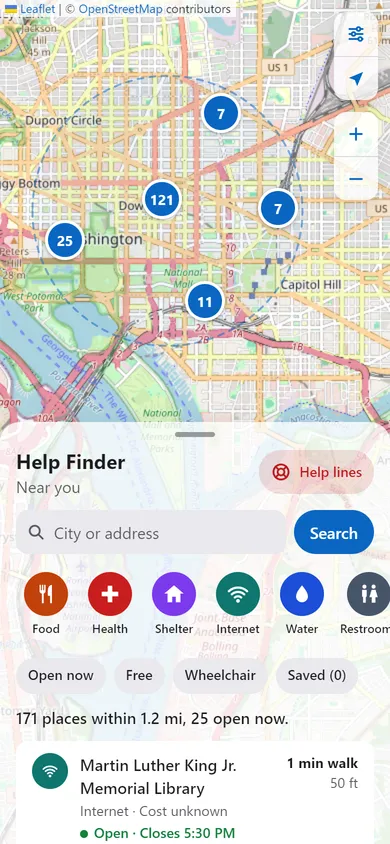
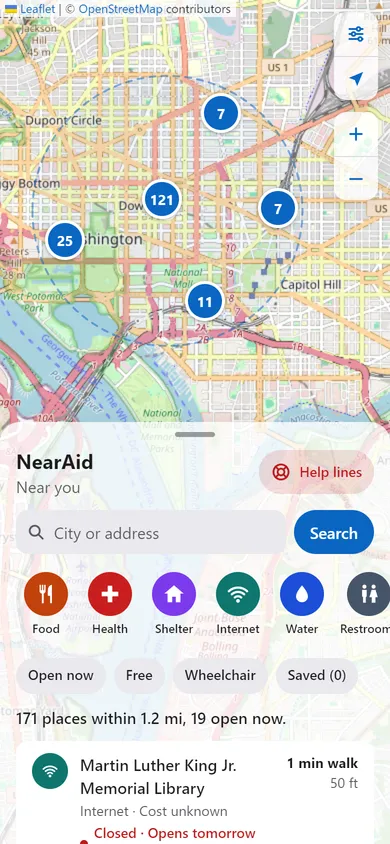
Update documents and screenshots for NearAid
README, SUBMISSION, and the demo video script now describe the nine languages,
the "What do you need?" start screen, the weekly Geofabrik-based offline packs
(204,000 places, 9,400 files), and the tested airplane-mode flow. New and
retaken screenshots use the new name.

Changed region(s): [[0.1846, 0.955, 0.6769, 1.0], [0.0308, 0.5237, 0.3077, 0.5545], [0.4923, 0.8318, 0.7385, 0.8626]]

diff --git a/README.md b/README.md
@@ -1,12 +1,16 @@
 # NearAid
 
-**Free help near you, in English and Spanish, anywhere.**
+**Free help near you, in nine languages, anywhere, even in airplane mode.**
 
-NearAid is a free map app that shows free food, health care, shelter, internet, drinking water, restrooms, and showers near you, tells you what's **open right now**, and shows you **how to walk there**. It works on any phone with a web browser, installs to the home screen, and keeps working with no signal.
+NearAid is a free map app that shows free food, health care, shelter, internet, drinking water, restrooms, and showers near you. It tells you what's **open right now** and shows you **how to walk there**. It works on any phone with a web browser, installs to the home screen, and can work with no signal at all.
 
 **Try it:** https://nandan458.github.io/help-finder/
 
-|                          Phone, light, English                          |                               Phone, dark, Spanish                                |                                 Walking directions                                 |
+|                                Pick a language                                |                                                  What do you need?                                                  |                           Free food, nearest first                           |
+| :---------------------------------------------------------------------------: | :-----------------------------------------------------------------------------------------------------------------: | :--------------------------------------------------------------------------: |
+| ![Language chooser with nine languages](docs/screenshots/phone-language.webp) | ![Big buttons: free food, health care, a place to stay, Wi-Fi, water, restrooms](docs/screenshots/phone-needs.webp) | ![Food banks near downtown Washington, DC](docs/screenshots/phone-food.webp) |
+
+|                             Light, English                              |                                   Dark, Spanish                                   |                                 Walking directions                                 |
 | :---------------------------------------------------------------------: | :-------------------------------------------------------------------------------: | :--------------------------------------------------------------------------------: |
 | ![Nearby list in light mode](docs/screenshots/phone-list-light-en.webp) | ![Nearby list in dark mode, in Spanish](docs/screenshots/phone-list-dark-es.webp) | ![Walking route drawn on the map](docs/screenshots/phone-directions-light-en.webp) |
 
@@ -24,49 +28,49 @@ People who need help often don't know what's nearby or when it's open. The infor
 
 ## Who it helps
 
-- **Anyone who needs free resources, wherever they are:** people new to an area, people experiencing homelessness, travelers, families on a tight budget, and Spanish speakers. Many of them use older phones with limited data, so the app is small, fast, and works offline.
+- **Anyone who needs free resources, wherever they are:** people new to an area, people experiencing homelessness, travelers, families on a tight budget, and people who speak languages other than English. Many of them use older phones with limited data, so the app is small, fast, and works offline.
 - **People who help others:** counselors, librarians, social workers, and volunteers can look up nearby resources and share a link to one place.
 
 ## Features
 
-- **Find help near you.** Uses your location (or a city or address you type) and searches within 2 km, widening to 5 km and 15 km if there's little nearby. It always says how far it looked.
-- **Map and list together.** Color-coded pins that group into numbered bubbles when zoomed out, and a list sorted by walking time. Tap either one to open the place.
+- **Starts with what you need.** The first screen asks "What do you need?" with big picture buttons: free food, health care, a place to stay, Wi-Fi or a place to charge, drinking water, restrooms and showers. One tap, and the map opens filtered to that.
+- **Nine languages, chosen on first launch:** English, Español, 中文 (简体), Tagalog, Tiếng Việt, 한국어, Français, Kreyòl ayisyen, and Русский. Adding a language means adding one file. Walking steps are in your language for Spanish, French, Vietnamese, Korean, and Russian; the routing service doesn't offer the other three, so those show English steps with a note.
+- **Works in airplane mode.** Save your state once (Settings → Offline use, about 1 to 4 MB) and every search there works with no signal, even in places you never visited. Without that, the app still opens offline and shows your last results and saved places.
+- **Fast.** Searches inside the U.S. read small pre-made files, instead of waiting 30 to 60 seconds for a busy public map server.
 - **Open now.** Every place with hours shows _Open · Closes 7:00 PM_, _Closes soon_, _Closed · Opens tomorrow 9:00 AM_, or _Hours unknown, call ahead_, updated every minute.
-- **Filters.** Category buttons, plus _Open now_, _Free_, _Wheelchair_, and _Saved_.
-- **Place card.** Status, distance and walk time, address, tap-to-call phone, website, the week's hours with today highlighted, cost, and wheelchair access.
-- **Walking directions in the app.** The route is drawn on the map with numbered steps in English or Spanish. The phone's own maps app is one tap away for turn-by-turn navigation.
-- **English and Spanish** for everything, remembered on the device. Adding a language means adding one file.
-- **Read aloud.** Hear a place's name, status, walk time, and address, in the current language.
-- **Help lines, always one tap away:** 911, the 988 Suicide & Crisis Lifeline, and 211. They also appear on their own when a search finds very few places.
-- **Saved places** that work offline.
-- **Share a place.** Every place has its own link that opens straight to it.
-- **Works offline.** The app, your last search results, your saved places, and map areas you've viewed all work with no signal.
+- **Looks farther when it needs to.** If you pick _Free food_ and the nearest food bank is 3 miles away, it looks that far and tells you. If there's none, it says how far it looked and shows the help lines.
+- **Map and list together.** Color-coded pins that group into numbered bubbles, and a list sorted by walking time.
+- **Filters:** category buttons, plus _Open now_, _Free_, _Wheelchair_, and _Saved_.
+- **Place card:** status, distance and walk time, address, tap-to-call phone, website, the week's hours with today highlighted, cost, and wheelchair access.
+- **Walking directions in the app.** The route is drawn on the map with numbered steps. The phone's own maps app is one tap away for live turn-by-turn navigation.
+- **Read aloud** in the current language, **saved places**, and **share a place** (every place has its own link).
+- **Help lines, always one tap away:** 911, the 988 Suicide & Crisis Lifeline, and 211.
 - **Installable** to the home screen like a regular app.
-- **Settings:** light, dark, or automatic appearance; larger text; a plain-language privacy page; and _Clear data on this device_.
-- **Accessible:** works with a keyboard and screen readers, color is never the only clue, and buttons are large enough to tap.
+- **Settings:** light, dark, or automatic appearance; larger text; a plain-language privacy page; offline use; and _Clear data on this device_.
+- **Accessible:** works with a keyboard and screen readers, color is never the only clue, buttons are large enough to tap, and an automated accessibility check (axe) finds no problems.
 
 ## How it works
 
-1. **Where are you?** The app asks for the phone's location. If you say no, you can type a city or address instead; [Nominatim](https://nominatim.org/), OpenStreetMap's search service, turns it into a point on the map.
-2. **What's nearby?** The app asks the [Overpass API](https://overpass-api.de/) for every place within 5 km that's tagged as a food bank, soup kitchen, clinic, shelter, library, drinking fountain, public restroom, and so on. It picks out the closest 2 km on the phone, and only asks again for 15 km if there are too few places.
-3. **Cleaning up the data.** [OpenStreetMap](https://www.openstreetmap.org/) is made by volunteers, so the same kind of place is tagged in different ways. [`categories.ts`](src/lib/categories.ts) decides which tags count as which category, removes duplicates (a library mapped both as a point and as its building), and only calls a place _Free_ when the data says so.
+1. **Where are you?** The app asks for the phone's location. If you say no, you can type a city or address; [Nominatim](https://nominatim.org/), OpenStreetMap's search service, turns it into a point on the map.
+2. **What's nearby?** Once a week, a GitHub job downloads every U.S. state from [Geofabrik](https://download.geofabrik.de/) (daily OpenStreetMap extracts built for bulk use) and keeps the free places: 204,000 in all. It cuts them into 9,400 small files, one per square about 28 km tall, and publishes them next to the app. To search, your phone downloads the one to four squares around you. Outside the U.S., or if anything is missing, it falls back to asking the live [Overpass API](https://overpass-api.de/).
+3. **Cleaning up the data.** [OpenStreetMap](https://www.openstreetmap.org/) is made by volunteers, so the same kind of place is tagged in different ways. [`categories.ts`](src/lib/categories.ts) decides which tags count as which category, removes duplicates (a library mapped both as a point and as its building), and only calls a place _Free_ when the data says so. The weekly job uses the very same function, so the offline files can never disagree with the app.
 4. **Open now.** The [opening_hours](https://github.com/opening-hours/opening_hours.js) library reads OSM's compact hours format (`Mo-Fr 09:00-17:00; Sa 10:00-14:00`, holidays, sunrise-sunset...). [`hours.ts`](src/lib/hours.ts) turns that into "open, closed, or unknown, and when that changes".
-5. **Walking directions.** [Valhalla](https://github.com/valhalla/valhalla), a free routing service run by the [FOSSGIS](https://fossgis.de/) volunteers, returns the route and the steps in the app's language.
-6. **Saving for later.** Search results are saved on the phone (IndexedDB) for up to a week, so repeat searches are instant and work offline. A service worker keeps a copy of the app itself.
+5. **Walking directions.** [Valhalla](https://github.com/valhalla/valhalla), a free routing service run by the [FOSSGIS](https://fossgis.de/) volunteers, returns the route and the steps.
+6. **Saving for later.** Squares and search results are saved on the phone (IndexedDB), and a service worker keeps a copy of the app itself.
 
 ## Tech stack
 
-| Part    | What we use                                                                                                                                                                                                                                            |
-| ------- | ------------------------------------------------------------------------------------------------------------------------------------------------------------------------------------------------------------------------------------------------------ |
-| App     | [React 19](https://react.dev/), [TypeScript](https://www.typescriptlang.org/), [Vite](https://vite.dev/)                                                                                                                                               |
-| Map     | [Leaflet](https://leafletjs.com/) with [react-leaflet](https://react-leaflet.js.org/) and [Leaflet.markercluster](https://github.com/Leaflet/Leaflet.markercluster) (via react-leaflet-cluster), [OpenStreetMap tiles](https://www.openstreetmap.org/) |
-| Data    | [Overpass API](https://overpass-api.de/), [Nominatim](https://nominatim.org/), [Valhalla](https://valhalla1.openstreetmap.de/) routing (FOSSGIS)                                                                                                       |
-| Hours   | [opening_hours.js](https://github.com/opening-hours/opening_hours.js)                                                                                                                                                                                  |
-| Offline | [vite-plugin-pwa](https://vite-pwa-org.netlify.app/) (Workbox service worker), [idb-keyval](https://github.com/jakearchibald/idb-keyval) (IndexedDB)                                                                                                   |
-| Styling | Plain CSS with design tokens (CSS variables) for light and dark mode                                                                                                                                                                                   |
-| Testing | [Vitest](https://vitest.dev/): 140 tests, using saved real Overpass and Valhalla answers                                                                                                                                                               |
-| Quality | ESLint, Prettier; Lighthouse mobile: Performance 95, Accessibility 100, Best Practices 100                                                                                                                                                             |
-| Hosting | GitHub Pages, deployed by GitHub Actions on every push to `main`                                                                                                                                                                                       |
+| Part    | What we use                                                                                                                                                                                                                                                               |
+| ------- | ------------------------------------------------------------------------------------------------------------------------------------------------------------------------------------------------------------------------------------------------------------------------- |
+| App     | [React 19](https://react.dev/), [TypeScript](https://www.typescriptlang.org/), [Vite](https://vite.dev/)                                                                                                                                                                  |
+| Map     | [Leaflet](https://leafletjs.com/) with [react-leaflet](https://react-leaflet.js.org/) and Leaflet.markercluster (via react-leaflet-cluster), [OpenStreetMap tiles](https://www.openstreetmap.org/)                                                                        |
+| Data    | [Geofabrik](https://download.geofabrik.de/) extracts filtered with [osmium](https://osmcode.org/osmium-tool/) (weekly); [Overpass API](https://overpass-api.de/), [Nominatim](https://nominatim.org/), and [Valhalla](https://valhalla1.openstreetmap.de/) routing (live) |
+| Hours   | [opening_hours.js](https://github.com/opening-hours/opening_hours.js)                                                                                                                                                                                                     |
+| Offline | [vite-plugin-pwa](https://vite-pwa-org.netlify.app/) (Workbox service worker), [idb-keyval](https://github.com/jakearchibald/idb-keyval) (IndexedDB)                                                                                                                      |
+| Styling | Plain CSS with design tokens (CSS variables) for light and dark mode                                                                                                                                                                                                      |
+| Testing | [Vitest](https://vitest.dev/): 173 tests, using saved real Overpass and Valhalla answers; the weekly data was checked against real Overpass data (172 of 172 places matched downtown DC)                                                                                  |
+| Quality | ESLint, Prettier; Lighthouse mobile on the live site: Performance 97, Accessibility 100, Best Practices 100                                                                                                                                                               |
+| Hosting | GitHub Pages, deployed by GitHub Actions on every push to `main`                                                                                                                                                                                                          |
 
 No backend, no accounts, no API keys, no tracking, no ads. Everything runs in the browser.
 
@@ -85,52 +89,65 @@ npm run preview    # try the production version (with offline support)
 
 Other commands: `npm run format` (tidy the code with Prettier) and `npm run icons` (make the app icons from [`public/logo.svg`](public/logo.svg)).
 
-To rename the app, change `APP_NAME` in [`src/config.ts`](src/config.ts). The search radii live there too.
+To rename the app, change `APP_NAME` in [`src/config.ts`](src/config.ts). The search radii live there too. To add a language, copy [`src/i18n/en.json`](src/i18n/en.json) to a new file named with the language code and translate the values.
 
 ### Project layout
 
 ```
 src/
   app/         the screens and their logic (App, FinderScreen, hooks like useNearbySearch)
-  components/  pieces of the screen (MapView, Sheet, PlaceCard, RouteView, HelpLines...)
-  i18n/        en.json, es.json, and the translation helper
-  lib/         plain logic with no React: overpass, categories, hours, cache, route...
+  components/  pieces of the screen (MapView, Sheet, PlaceCard, RouteView, LanguageScreen...)
+  i18n/        one JSON file per language, and the translation helper
+  lib/         plain logic with no React: overpass, packs, categories, hours, cache, route...
   styles/      tokens.css (all colors and sizes), base.css
   test/        tests and saved real server answers (fixtures/)
+scripts/build-packs.mjs        builds the offline packs from Geofabrik state files
 .github/workflows/deploy.yml   checks, builds, and publishes the site
+.github/workflows/packs.yml    rebuilds the offline packs every Sunday
 ```
 
 ### Deploying
 
-Every push to `main` runs [the deploy workflow](.github/workflows/deploy.yml): install, lint, test, build, publish to GitHub Pages. If the lint or tests fail, nothing is published. On a new copy of the repo, turn it on under **Settings → Pages → Source: GitHub Actions**.
+Every push to `main` runs [the deploy workflow](.github/workflows/deploy.yml): install, lint, test, build, publish to GitHub Pages. If the lint or tests fail, nothing is published. Every Sunday, [the packs workflow](.github/workflows/packs.yml) rebuilds the offline data (about 40 minutes), saves it on a `packs` branch, and triggers a deploy. On a new copy of the repo, turn Pages on under **Settings → Pages → Source: GitHub Actions**, then run the packs workflow once by hand.
 
 ## Privacy
 
 - **Your location** is used only to find places near you. Before it leaves the phone, it's rounded to about 100 meters. Your exact location is never saved.
-- **Who receives what:** OpenStreetMap's servers get the rounded location (to find places) and send the map pictures. A typed place goes to Nominatim. Walking directions send the rounded starting point and the place to the routing server.
-- **On the phone:** saved places, recent search results, and roughly where you last searched (about 1 km) are kept so the app works offline. They're deleted after 7 days, or right away with _Settings → Clear data on this device_.
+- **Who receives what:** searches in the U.S. only download pre-made files from this site, so your location doesn't leave the phone for them. Outside the U.S., the rounded location goes to OpenStreetMap's Overpass server. OpenStreetMap's servers also send the map pictures. A typed place goes to Nominatim. Walking directions send the rounded starting point and the place to the routing server.
+- **On the phone:** saved places, recent search results, any states you saved for offline use, and roughly where you last searched (about 1 km) are kept so the app works offline. Search results are deleted after 7 days, and everything goes right away with _Settings → Clear data on this device_.
 - **No accounts, cookies, analytics, ads, or trackers.**
 
 ## Using the free map services fairly
 
 These services are run by volunteers, so the app follows their usage rules:
 
-- **Overpass:** one search at a time, a timeout, a backup server tried once, and results saved on the phone so the same area isn't asked for again.
+- **Geofabrik:** one download of each state per week, from a GitHub server, not from phones.
+- **Overpass:** only used outside the pre-made area; one search at a time, a timeout, a backup server tried once, and results saved on the phone.
 - **Nominatim:** at most one request per second, and only when the person presses Search (never while typing).
 - **Valhalla:** at most one request per second, and only when someone asks for directions.
-- **OpenStreetMap tiles:** credited on the map, and only the tiles you've looked at are saved for offline use (at most 300, for a week).
-- **Credit and corrections:** every screen credits OpenStreetMap and links to [openstreetmap.org/fixthemap](https://www.openstreetmap.org/fixthemap), so anyone can fix wrong data.
+- **OpenStreetMap tiles:** credited on the map, and only the tiles you've looked at are saved for offline use (at most 300, for a week). Whole map areas are never bulk-downloaded.
+- **Credit and corrections:** every screen credits OpenStreetMap and links to [openstreetmap.org/fixthemap](https://www.openstreetmap.org/fixthemap), so anyone can fix wrong data. See [LOCAL-DATA-GUIDE.md](LOCAL-DATA-GUIDE.md) for how to add or fix places in your own area.
+
+## Known limits
+
+- **Map pictures offline:** with no signal, the map picture only shows areas you've already viewed. The places and the list work everywhere in a saved state.
+- **Typing a city needs internet.** With no signal, use the location button instead.
+- **Offline data is up to a week old,** and OpenStreetMap is only as complete as its volunteers make it, so the app tells people to call ahead.
+- **Walking steps** are in English for Chinese, Tagalog, and Haitian Creole.
+- **Translations** were written with AI help and should be checked by native speakers.
+- **Help-line numbers** are U.S. numbers (911, 988, 211).
 
 ## Credits
 
 - **Map data © [OpenStreetMap contributors](https://www.openstreetmap.org/copyright)**, under the [Open Database License](https://opendatacommons.org/licenses/odbl/). Every place in this app was added by a volunteer.
+- [Geofabrik](https://www.geofabrik.de/) for the daily state extracts, and [osmium](https://osmcode.org/osmium-tool/) for filtering them.
 - [Overpass API](https://overpass-api.de/) and [Valhalla routing](https://valhalla1.openstreetmap.de/), run by [FOSSGIS e.V.](https://fossgis.de/), and the [maps.mail.ru](https://maps.mail.ru/osm/tools/overpass/) Overpass mirror.
 - [Nominatim](https://nominatim.org/) and the map tiles, run by the [OpenStreetMap Foundation](https://osmfoundation.org/).
 - Open-source libraries: React, Leaflet, react-leaflet, Leaflet.markercluster, react-leaflet-cluster, opening_hours.js, idb-keyval, vite-plugin-pwa and Workbox, Vite, Vitest, TypeScript, ESLint, Prettier.
 
 ## How this app was built
 
-I planned the app: the problem, who it's for, its features, and its design. I built it with help from **Claude Code**, Anthropic's AI coding assistant, which wrote much of the code from my plan in step-by-step phases. Each phase stopped so I could run it, review it, and decide what came next. The code is written to be read: comments explain _why_, so I can explain every part of it.
+I planned the app: the problem, who it's for, its features, and its design. I built it with help from **Claude Code**, Anthropic's AI coding assistant, which wrote much of the code from my plan in step-by-step phases. Each phase stopped so I could run it, review it, and decide what came next. I also decided changes along the way: the name, the language list, the "What do you need?" start screen, and that the app must work in airplane mode. The code is written to be read: comments explain _why_, so I can explain every part of it.
 
 Other tools: Chrome and Lighthouse (testing and performance checks), GitHub and GitHub Actions (code and publishing).
 

diff --git a/SUBMISSION.md b/SUBMISSION.md
@@ -14,7 +14,7 @@ NearAid
 
 ## Target audience
 
-Anyone who needs free help, wherever they are: people new to an area, people experiencing homelessness, travelers, families on a tight budget, and Spanish speakers. Many of them have older phones and limited data. A second group is the people who help others find resources, like school counselors, librarians, social workers, and volunteers.
+Anyone who needs free help, wherever they are: people new to an area, people experiencing homelessness, travelers, families on a tight budget, and people who speak languages other than English. Many of them have older phones and limited data. A second group is the people who help others find resources, like school counselors, librarians, social workers, and volunteers.
 
 ✏ Add a sentence about who needs this in _your_ district (for example, a shelter, food bank, or library you know of).
 
@@ -22,21 +22,21 @@ Anyone who needs free help, wherever they are: people new to an area, people exp
 
 When people need free food, a clinic, a shelter, Wi-Fi, a restroom, or clean water, the information is scattered across websites that are often out of date, cover only one city, or need an account. And if you show up somewhere that turns out to be closed, you've lost a trip that might have cost bus fare or a missed shift.
 
-NearAid puts it all on one map. It finds free resources near you, tells you what's open right now and when it closes, and shows the walking route right in the app. It works anywhere in the world, in English and Spanish, with no account. It installs to your home screen and still works with no signal, using your last results. If there isn't much nearby, it shows help lines like 211 and 988 so no one leaves empty-handed.
+NearAid puts it all on one map. It finds free resources near you, tells you what's open right now and when it closes, and shows the walking route right in the app. It starts with one question, "What do you need?", with big picture buttons for food, health care, a place to stay, Wi-Fi, water, and restrooms, so people get to what matters in one tap. It speaks nine languages, picked on the first screen, and needs no account. It installs to your home screen, and if you save your state once, it works in **airplane mode**, even in places you've never been. If there isn't much nearby, it shows help lines like 211 and 988 so no one leaves empty-handed.
 
 ## How the app works
 
-1. You allow location, or type a city or address.
-2. The app asks OpenStreetMap, a free map made by volunteers worldwide, for places tagged as food banks, clinics, shelters, libraries, drinking fountains, public restrooms, and showers within 5 km. It shows the closest 2 km first and only looks farther if there's very little nearby.
-3. It sorts the places into seven categories, works out which are open right now from their hours, and shows them on a map and in a list sorted by walking time.
-4. You can filter by category, by _Open now_, _Free_, or _Wheelchair accessible_, and open any place to see its hours for the week, phone, address, walking directions, and more.
-5. Results are saved on the phone, so searching the same area again is instant and works offline.
+1. You pick a language and what you need, then allow location (or type a city or address).
+2. The app finds places from OpenStreetMap, a free map made by volunteers worldwide: food banks, clinics, shelters, libraries, drinking fountains, public restrooms, and showers. Inside the U.S., it reads small pre-made files that a weekly job builds from OpenStreetMap's state downloads, so it's instant. Anywhere else, it asks the live server.
+3. It sorts the places into seven categories, works out which are open right now from their hours, and shows them on a map and in a list sorted by walking time. If you picked "food" and the nearest food bank is far, it looks farther until it finds some.
+4. You can filter by category, by _Open now_, _Free_, or _Wheelchair accessible_, and open any place to see its hours for the week, phone, address, walking directions drawn on the map, and more.
+5. Results and any state you saved are kept on the phone, so searching works offline.
 
 It's a website built with React and TypeScript, using Leaflet for the map. It has no server of its own and no accounts or tracking, and it's published for free on GitHub Pages.
 
 ## The hardest technical challenge, and how I solved it
 
-> Pick **one** to talk about. Option A is the best story; B and C are backups.
+> Pick **one** to talk about. Option B is the strongest story (a real problem, a real measurement, a real fix); A and C are good backups.
 
 ### A. Turning messy volunteer map data into a trustworthy "Open now"
 
@@ -50,31 +50,34 @@ So I did three things:
 2. **A proper hours parser.** I used the opening_hours library, which the OpenStreetMap community maintains, to read the hours. When I tested it on every real hours string in my test data, I found it needs the place's location for sunrise times, but fails on holiday rules if you give it a location with no country. My code handles both cases.
 3. **Never guessing.** The app only says "Open" or "Free" when the data says so. Otherwise it says "Hours unknown, call ahead", because showing up somewhere closed is exactly the wasted trip this app exists to prevent.
 
-I tested all of this with 140 automated tests, using real map data saved from downtown DC and a small town in Maryland.
+I tested all of this with 173 automated tests, using real map data saved from downtown DC and a small town in Maryland.
 
-### B. The free map server was slow, so I made the app smarter about waiting
+### B. The free map server was too slow, so I built my own fast copy of the data
 
-The free Overpass server is shared by thousands of apps, and a single search could take 30 to 60 seconds. I can't make their server faster, so I changed how my app uses it:
+My first version asked the free Overpass server for places on every search. It's shared by thousands of apps, and a single search could take **30 to 60 seconds**, mostly waiting in line. I can't make their server faster, so I took the work off it:
 
-- **One request instead of two.** Asking for a bigger area hardly takes longer, so I ask for 5 km once and pick out the closest 2 km on the phone.
-- **Saved results.** Results are saved on the phone, so the same area is instant the next time and works offline.
-- **A backup server.** When the main server is busy, the app tries a backup once. I tested the backup servers and replaced one that never answered.
-- **Honest waiting.** The app tells people the server can be slow instead of looking frozen.
+1. **Measure first.** I timed both public servers with real searches. I made the app ask for 5 km once instead of 2 km and then 5 km, and I replaced a backup server that never answered. That helped, but not enough.
+2. **Do the work ahead of time, like big map apps do.** Once a week, a GitHub job downloads every state from Geofabrik (a service that publishes OpenStreetMap by state), keeps the free places, and cuts the whole country into 9,400 small files, one per area. The app reads just the one to four files around you. A search went from about 40 seconds to **about 1.5 seconds**, with no request to the slow server.
+3. **Prove it's right.** I compared my files with what the live server returned for downtown DC. My first version was **missing 63 of 172 places**: every place mapped as a building, such as the main library, because of how the download tool numbers building shapes. I found it, fixed it, and wrote a test. The second comparison matched **172 of 172, in every category**.
+4. **Never trust it blindly.** The same function that decides what counts as a food bank or a shelter runs in the app and in the weekly job, so they can't disagree. If a file is missing, or you're outside the U.S., the app quietly asks the live server instead.
+
+This also made airplane mode possible, because the same files can be saved on the phone.
 
 ### C. Making it work with no signal
 
-The app has three offline layers: the app's own code (a service worker), the search results (a small database on the phone), and the map pictures you've already seen. Each one has a size or time limit, so it never fills up a cheap phone. I tested it by turning off the network in a real browser and reloading: it still opened, showed the last results, and showed saved places.
+The app has three offline layers: the app's own code (a service worker), the places (small files saved on the phone, for a whole state if you choose "Save for offline use"), and the map pictures you've already seen. Each one has a size or time limit, so it never fills up a cheap phone. I tested it on the live site in a real browser: I searched Baltimore, saved Maryland, turned the network off, and opened the app in Frederick, a place I never searched. It showed 29 places with hours and walking times.
 
 ## What I'd add next
 
-- **Instant results everywhere in the U.S.:** pre-sort all the free places into small neighborhood files once a week, so searches don't have to wait on the shared server.
-- **More languages:** each language is one file, so Chinese, Vietnamese, Arabic, or Haitian Creole would be easy to add with help from native speakers.
+- **The same offline data for other countries:** the weekly job already works state by state; Canada, Mexico, and others use the same download service.
+- **Native-speaker review and more languages:** I wrote the nine languages with AI help, and I'd like native speakers to check each one. Each language is one file, and Arabic needs a right-to-left layout.
+- **Walking steps in all nine languages:** the free routing service only writes steps in six of them, so Chinese, Tagalog, and Haitian Creole currently get English steps.
 - **"Add a missing place" inside the app:** let people suggest a food pantry or free clinic directly, sent to OpenStreetMap so everyone benefits.
 - **Local help-line numbers outside the U.S.:** pick the right emergency and help numbers from the country you're in.
 - **Partnering with local organizations:** ✏ name one in your district (a food bank, library, or shelter) that could check and update its own information.
 
 ## Tools and technologies
 
-React, TypeScript, Vite, Leaflet (map), OpenStreetMap data through the Overpass API and Nominatim, Valhalla routing, opening_hours.js, vite-plugin-pwa (offline and installable), IndexedDB, Vitest (testing), ESLint and Prettier, GitHub Actions and GitHub Pages.
+React, TypeScript, Vite, Leaflet (map), OpenStreetMap data (weekly state downloads from Geofabrik filtered with osmium; live Overpass API and Nominatim), Valhalla routing, opening_hours.js, vite-plugin-pwa (offline and installable), IndexedDB, Vitest (testing), ESLint and Prettier, GitHub Actions and GitHub Pages. Lighthouse on the live site: Performance 97, Accessibility 100, Best Practices 100.
 
-**AI assistance:** I used Claude Code, Anthropic's AI coding assistant, to help write the code, working in phases from my plan and reviewing each one. ✏ Describe in your own words what _you_ decided, designed, and changed (for example: the features, the Spanish support, the privacy choices, the parts you edited yourself).
+**AI assistance:** I used Claude Code, Anthropic's AI coding assistant, to help write the code, working in phases from my plan and reviewing each one. ✏ Describe in your own words what _you_ decided, designed, and changed (for example: the name, the nine languages, the "What do you need?" screen, the decision that it must work in airplane mode, the privacy choices, the parts you edited yourself).

diff --git a/DEMO-VIDEO-SCRIPT.md b/DEMO-VIDEO-SCRIPT.md
@@ -4,10 +4,11 @@
 
 ## Before you record
 
-- **Search first, on your phone, with Wi-Fi on.** Use the place you'll demo (your town, or downtown DC). The free map server can take 30 to 60 seconds, so do this _before_ recording. When you record, the results load instantly from the phone's saved copy.
-- **Install the app:** open https://nandan458.github.io/help-finder/ in your phone's browser and choose **Add to Home Screen**. Record from the home-screen icon; it looks like a real app.
+- **Install the app on Wi-Fi:** open https://nandan458.github.io/help-finder/ in your phone's browser and choose **Add to Home Screen**. Close it completely and open it **twice** so you get the newest version. Record from the home-screen icon; it looks like a real app.
+- **Practice the offline demo first, in your own state.** Open the app, go to **Settings → Offline use**, and tap **Save <your state> for offline use** (a few MB). Then turn on airplane mode and search. If you can't see the Offline use section, you're on an old copy: reopen the app again.
+- **To show the first-time screens** (language, "What do you need?"), clear the site's data first: browser menu → Site settings → Clear data for this site. Then the language chooser shows again.
 - **Pick one place to show** that has hours and a phone number (a library or food bank works well). Save it once so _Saved (1)_ shows up.
-- **Set up the phone:** language English, appearance Automatic, Do Not Disturb on, and a full battery.
+- **Set up the phone:** appearance Automatic, Do Not Disturb on, and a full battery.
 - **Recording:** use the phone's screen recorder and record your voice separately, or film the phone with a second phone. Hold it steady and tap slowly.
 
 ---
@@ -22,39 +23,40 @@
 
 ## 0:20 to 0:40 · Who it's for, and why it works anywhere
 
-**On screen:** the app's home-screen icon, then the welcome screen.
+**On screen:** the app's home-screen icon, then the language chooser.
 
 **Say:**
 
-> "NearAid is for anyone who needs free help: people new to an area, people without a home, families on a tight budget, and Spanish speakers. It uses OpenStreetMap, a free world map made by volunteers, so it works anywhere, not just one city. No account, no ads, no tracking."
+> "NearAid is for anyone who needs free help: people new to an area, people without a home, families on a tight budget, and people who speak many different languages, so the very first screen lets you pick yours. It uses OpenStreetMap, a free world map made by volunteers, so it works anywhere, not just one city. No account, no ads, no tracking."
 
 ## 0:40 to 1:50 · Live demo on the phone
 
 Tap slowly and say what you're doing. Each step is about 7 seconds.
 
-1. **Allow location.** Tap **Use my location**, then Allow. _"It explains why it needs my location and that it never saves it."_
-2. **Help nearby.** The map fills with colored pins. _"Every free place near me: food, health, shelter, Wi-Fi, water, restrooms. The list is sorted by how long it takes to walk."_
+1. **Language and need.** Tap **English** (show the other languages for a second), then tap **Free food**. _"Nine languages. And instead of a search box, it just asks what I need, with big buttons, so anyone can use it, even if reading is hard."_
+2. **Allow location.** Tap **Use my location**, then Allow. _"It explains why it needs my location and that it never saves it."_ The map opens already showing food. _"Here are the free food places near me, nearest first. If the nearest one is far, it looks farther until it finds some."_ Then clear the **Food** button to see everything: _"Or everything: health, shelter, Wi-Fi, water, restrooms."_
 3. **Open now.** Tap the **Open now** pill. _"Now only places that are open right now. It even says when each one closes."_
 4. **Open a place.** Tap your chosen place. _"Its hours for the week with today highlighted, the phone number to call, and whether it's free."_
 5. **Walking directions.** Tap the blue **walk-time button**. _"The walking route is right on the map, with step-by-step directions, without leaving the app."_ Then tap **Back to place**.
-6. **Spanish.** Open **Settings** (the sliders icon), choose **Español**, close it. _"Everything switches to Spanish, even the walking directions."_
+6. **Another language.** Open **Settings** (the sliders icon), choose **Español** (or Tiếng Việt, or 한국어), close it. _"Everything switches, even the walking directions."_
 7. **Read aloud.** Tap **Escuchar** (Listen). Let it read for a few seconds. _"For people who have trouble reading small text, or are reading in their second language."_ Switch back to English.
 8. **Dark mode.** Settings, then **Dark**. _"Easier on the eyes at night, and it saves battery."_
-9. **Offline.** Turn on **airplane mode**, close the app, and open it again. _"No signal, but it still works. It shows my last results and my saved places."_ Turn airplane mode off.
+9. **Airplane mode.** Open **Settings → Offline use** and show it saved your state. Turn on **airplane mode**, close the app, and open it again. Tap **Use my location** (GPS still works with no signal) and search somewhere you did _not_ search before. _"No signal at all, and it still finds places, because I saved my state on the phone. This place I've never searched. The map picture only shows areas I've viewed, but all the places and the list work."_ Turn airplane mode off.
 10. **Help lines.** Tap the red **Help lines** button. _"911, the 988 crisis line, and 211 for local help are always one tap away. If a search finds very little nearby, they show up on their own."_
 
 ## 1:50 to 2:20 · One technical challenge
 
-**On screen:** your laptop, showing the code on GitHub. Good files to show:
+**On screen:** your laptop, showing GitHub. Good things to show:
 
-- [`src/lib/hours.ts`](src/lib/hours.ts): the `hoursStatus` function
-- [`src/lib/categories.ts`](src/lib/categories.ts): the comment about `amenity=shelter`
+- [`scripts/build-packs.mjs`](scripts/build-packs.mjs): the top comment that explains the weekly job
+- The **Actions** tab, with a green "Build offline packs" run
+- [`src/lib/categories.ts`](src/lib/categories.ts): the comment about `amenity=shelter` (if you'd rather tell the "messy data" story instead, see Option A in SUBMISSION.md)
 
 Zoom in so the text is readable.
 
-**Say** (from _Option A_ in SUBMISSION.md, in your own words):
+**Say** (from _Option B_ in SUBMISSION.md, in your own words):
 
-> "The hardest part was trusting the data. OpenStreetMap is written by volunteers, so the same kind of place is tagged in different ways, and hours are stored in a code like 'Mo to Th, 9 to 5, holidays off'. I used a library made by the OpenStreetMap community to read the hours, tested it on real data, and found two cases where it breaks, so my code handles both. The app only says 'Open' when it's sure; otherwise it says 'call ahead'. There are 140 automated tests checking this with real map data."
+> "The hardest part was speed. The free map server everyone shares took thirty to sixty seconds for one search. I can't speed up their server, so I did the work ahead of time, like big map apps do. Every week, a GitHub job downloads every state, keeps the free places, and cuts the country into nine thousand small files. Now a search reads a few small files and takes about a second and a half. To make sure I didn't lose anything, I compared my files with the live server for downtown DC. My first version was missing sixty-three of a hundred seventy-two places, every one a building like a library. I found why, fixed it, and the second check matched a hundred seventy-two out of a hundred seventy-two."
 
 ## 2:20 to 2:45 · Impact and what's next
 
@@ -62,7 +64,7 @@ Zoom in so the text is readable.
 
 **Say:**
 
-> "NearAid is free, works in English and Spanish, and works offline on an old phone. ✏ In my district, it shows [number] free places, including [one you know]. Next, I want to make searches instant everywhere and add more languages. And anyone can make it better: if a place is missing, you can add it to OpenStreetMap, and it shows up in the app. Thanks for watching."
+> "NearAid is free, works in nine languages, and works in airplane mode on an old phone. ✏ In my district, it shows [number] free places, including [one you know]. Next, I want native speakers to check each language, and to bring the same offline data to other countries. And anyone can make it better: if a place is missing, you can add it to OpenStreetMap, and it shows up in the app. Thanks for watching."
 
 **End card (3 seconds):** the app name, the link https://nandan458.github.io/help-finder/, and your name.
 
@@ -73,6 +75,6 @@ Zoom in so the text is readable.
 - [ ] Under 3 minutes
 - [ ] Shows the app running on a real phone
 - [ ] You can be heard clearly; no background music over your voice
-- [ ] Includes airplane mode (offline) and Spanish
+- [ ] Includes airplane mode (offline), the language chooser, and "What do you need?"
 - [ ] Says out loud that you used an AI coding assistant to help write the code, if the challenge rules ask for it
 - [ ] Uploaded as **public** or **unlisted** (not private), with the link added to SUBMISSION.md
